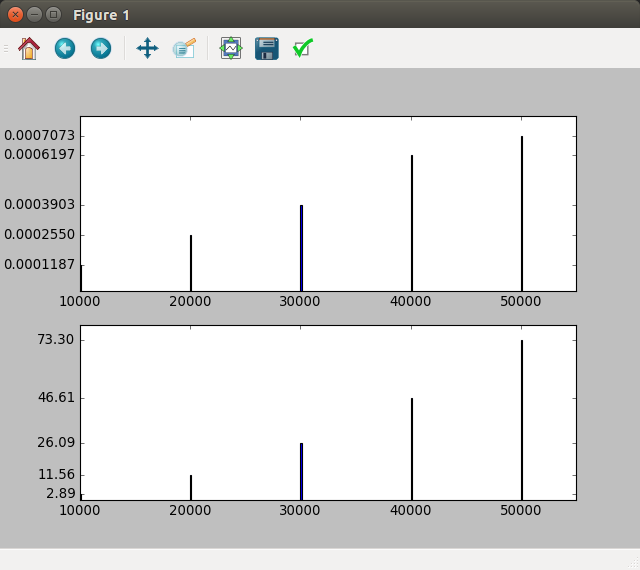
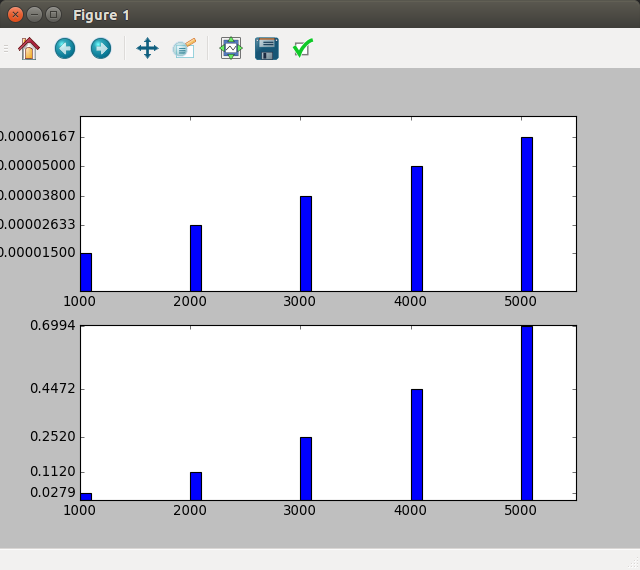
for 10000 .. 50000 elements

diff --git a/lesson6/lesson6_home/puzir.py b/lesson6/lesson6_home/puzir.py
@@ -44,21 +44,19 @@ def timer_for_quick_sort(list_for_sorting):
 
 
 if __name__ == "__main__":
-    xlist = mlab.frange(10000, 50000, 10000)
+    xlist = mlab.frange(1000, 5000, 1000)
     test_list = []
     for i in range(len(xlist)):
         test_list.append(iter_list(xlist[i]))
-    # for x in xlist:
-    #     print(x)
-    #     average_value(test_list[x/10000-1])
+
     plt.subplot(211)
-    ylist = [timer_for_quick_sort(test_list[x/10000-1]) for x in xlist]
+    ylist = [timer_for_quick_sort(test_list[x/1000-1]) for x in xlist]
     plt.bar(xlist, ylist, 100)
     plt.xticks(xlist)
     plt.yticks(ylist)
 
     plt.subplot(212)
-    ylist = [timer_for_sorting_bubble(test_list[x/10000-1]) for x in xlist]
+    ylist = [timer_for_sorting_bubble(test_list[x/1000-1]) for x in xlist]
     plt.bar(xlist, ylist, 100)
     plt.xticks(xlist)
     plt.yticks(ylist)
